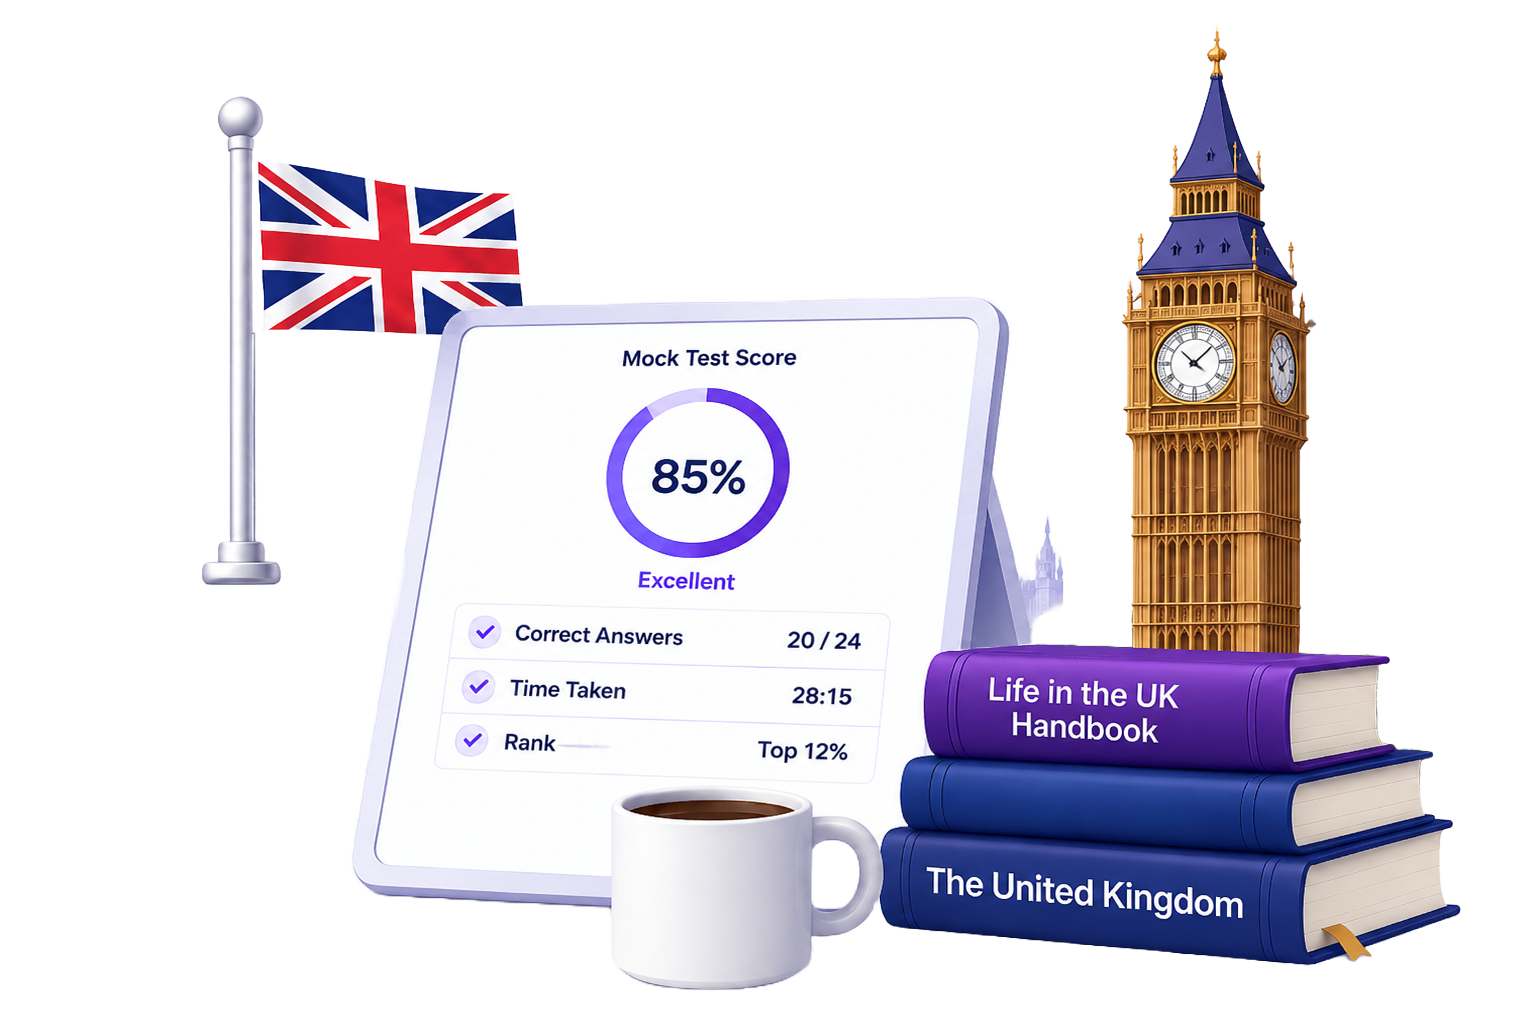
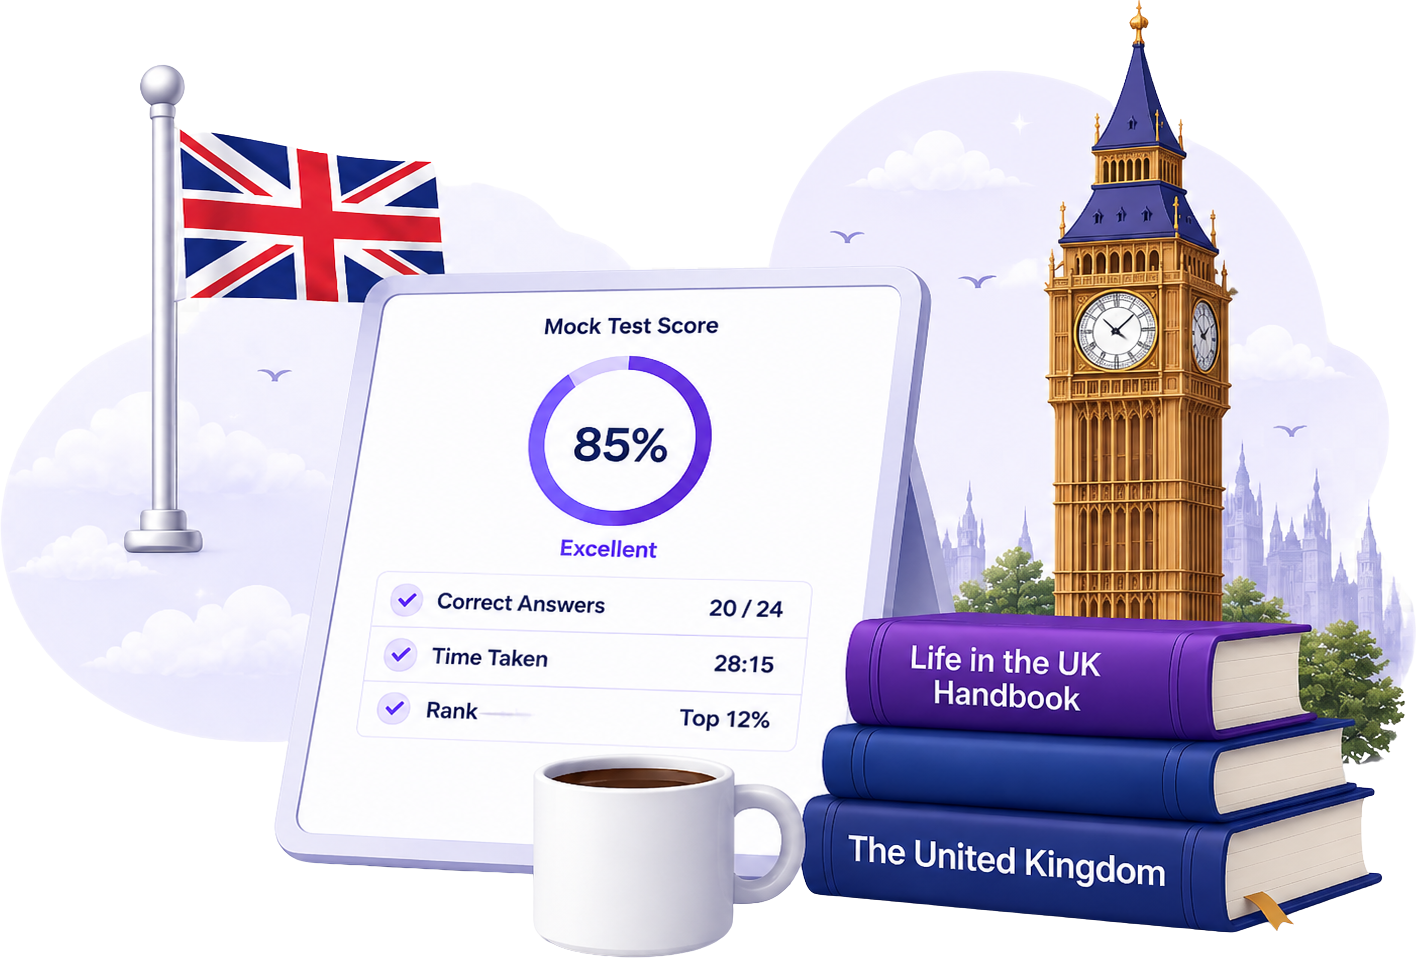
Replace hero/about/contact illustrations with genuinely transparent versions
The previous exports of all three images had no real alpha channel
(checkerboard pattern baked into opaque pixels), which showed as a
visible defect once the white card wrapper was removed. These new
exports have real alpha transparency (verified pixel data, not just
the PNG color type byte) and are trimmed to their content bounds.
Drops the now-unnecessary white card wrapper on the About and Contact
hero images to match the transparent Home hero treatment.

diff --git a/src/app/about/page.tsx b/src/app/about/page.tsx
@@ -126,17 +126,15 @@ export default function AboutPage() {
           </div>
         </div>
 
-        <div className="relative mx-auto w-full max-w-sm">
+        <div className="relative mx-auto w-full max-w-md">
           <div className="absolute inset-0 rounded-full bg-primary/10 blur-3xl" />
-          <div className="relative overflow-hidden rounded-3xl bg-white p-4 shadow-xl sm:p-6">
-            <Image
-              src="/about-illustration.png"
-              alt="A UK flag, a checklist of completed steps, Big Ben, and a graduation cap on study books"
-              width={494}
-              height={593}
-              className="h-auto w-full"
-            />
-          </div>
+          <Image
+            src="/about-illustration.png"
+            alt="A UK flag, a checklist of completed steps, Big Ben, and a graduation cap on study books"
+            width={731}
+            height={627}
+            className="relative h-auto w-full"
+          />
         </div>
       </div>
 

diff --git a/src/app/contact/page.tsx b/src/app/contact/page.tsx
@@ -66,17 +66,15 @@ export default async function ContactPage() {
           </div>
         </div>
 
-        <div className="relative mx-auto w-full max-w-sm">
+        <div className="relative mx-auto w-full max-w-md">
           <div className="absolute inset-0 rounded-full bg-primary/10 blur-3xl" />
-          <div className="relative overflow-hidden rounded-3xl bg-white p-4 shadow-xl sm:p-6">
-            <Image
-              src="/contact-illustration.png"
-              alt="An open envelope with a letter, next to Big Ben and a potted plant"
-              width={514}
-              height={610}
-              className="h-auto w-full"
-            />
-          </div>
+          <Image
+            src="/contact-illustration.png"
+            alt="An open envelope with a letter, next to a UK flag, Big Ben, and a potted plant"
+            width={733}
+            height={613}
+            className="relative h-auto w-full"
+          />
         </div>
       </div>
 

diff --git a/src/app/page.tsx b/src/app/page.tsx
@@ -410,8 +410,8 @@ export default async function Home({
             <Image
               src="/hero-illustration-transparent.png"
               alt="An 85% mock test score next to a UK flag and Life in the UK Test study books"
-              width={1535}
-              height={1024}
+              width={1416}
+              height={958}
               priority
               className="relative h-auto w-full"
             />